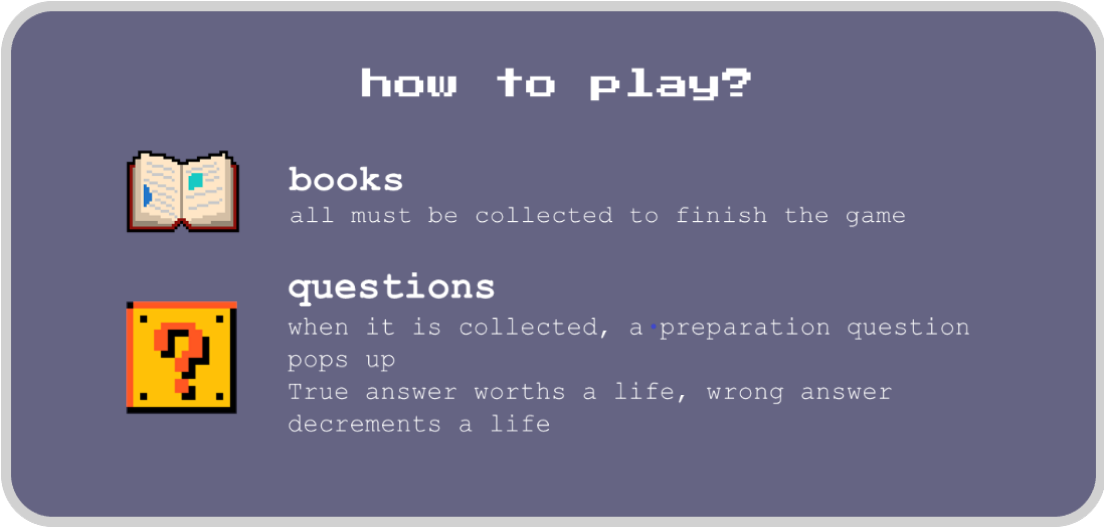
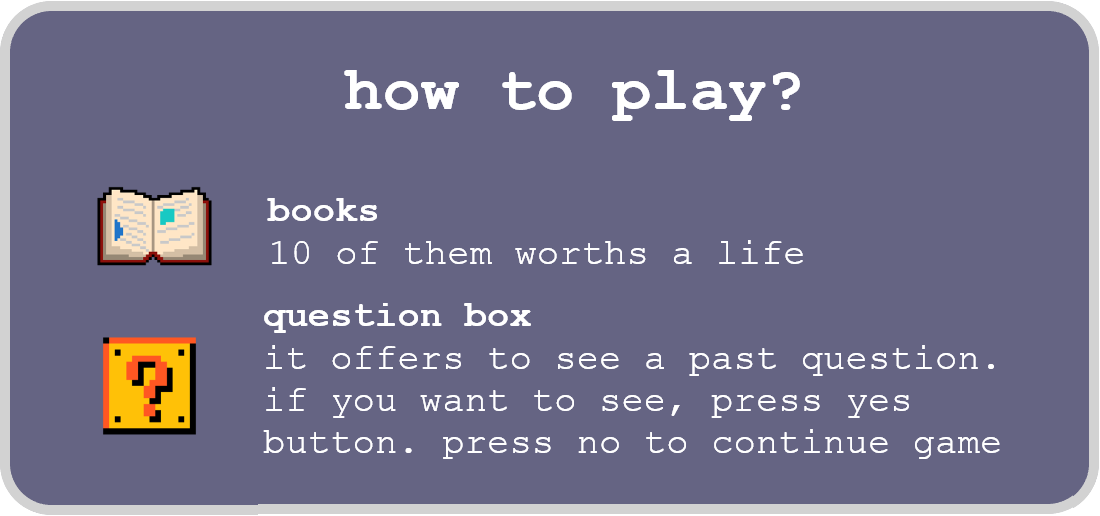
Last changes.

diff --git a/core/src/com/mygdx/demo/Screens/FinishScreen.java b/core/src/com/mygdx/demo/Screens/FinishScreen.java
@@ -4,6 +4,7 @@ package com.mygdx.demo.Screens;
 import com.badlogic.gdx.Game;
 import com.badlogic.gdx.Gdx;
 import com.badlogic.gdx.Screen;
+import com.badlogic.gdx.audio.Music;
 import com.badlogic.gdx.graphics.Color;
 import com.badlogic.gdx.graphics.GL20;
 import com.badlogic.gdx.graphics.OrthographicCamera;
@@ -21,16 +22,16 @@ import com.badlogic.gdx.scenes.scene2d.utils.TextureRegionDrawable;
 import com.badlogic.gdx.utils.viewport.FitViewport;
 import com.badlogic.gdx.utils.viewport.Viewport;
 import com.mygdx.demo.TuruncsAdventure;
+import com.mygdx.demo.Levels.LevelState;
 
 public class FinishScreen extends Window {
 
-    private Viewport viewport;
-    private Stage stage;
+
     private static WindowStyle windowStyle;
     private TuruncsAdventure game;
-    private Texture ad, oo, ud;
     private static Image finish;
-    private TextureRegionDrawable buttonDrawable, buttonDrawable2, buttonDrawable3;
+    public Music music;
+
 
     static {
         windowStyle = new Window.WindowStyle(new BitmapFont(), Color.BLACK,
@@ -40,6 +41,9 @@ public class FinishScreen extends Window {
     public FinishScreen(TuruncsAdventure t) {
         super("", windowStyle);
         game = t;
+         music = TuruncsAdventure.manager.get("Audio/music/pixel-song-18-72641.mp3", Music.class);
+        music.setLooping(true);
+        music.play();
         finish = new Image(new Texture("end.png"));
         getTitleTable().add(finish).size((int) (1100 / 3), (int) (516 / 3)).padTop(200).padRight(10);
         ;
@@ -47,7 +51,9 @@ public class FinishScreen extends Window {
             @Override
             public void clicked(InputEvent event, float x, float y) {
                 setVisible(false);
+                LevelState.bookCount =0;
                 game.setScreen(new MenuScreen(game));
+            
 
             }
         });

diff --git a/core/src/com/mygdx/demo/Screens/QCreator.java b/core/src/com/mygdx/demo/Screens/QCreator.java
@@ -54,7 +54,6 @@ public class QCreator extends Window {
                 getTitleTable().removeActor(questionAsk);
                 getTitleTable().removeActor(yesButton);
                 getTitleTable().removeActor(noButton);
-                System.out.println("jdnf");
 
                 if (!firstshown) {
                     firstshown = true;
@@ -96,7 +95,6 @@ public class QCreator extends Window {
                     });
 
                 }
-                System.out.println("djnfnjmffnddjfjnjfjfdjfdjnfjnfj");
 
             }
         });
@@ -106,10 +104,8 @@ public class QCreator extends Window {
                 setVisible(false);
             }
         });
-        //getTitleTable().add(questionAsk).size(700 / 5, 100 / 5).padLeft(400).padTop(100);
         getTitleTable().add(yesButton).size(96 / 2, 64 / 2).padLeft(200).padTop(300);
         getTitleTable().add(noButton).size(96 / 2, 64 / 2).padRight(200).padTop(300);
-        // getTitleTable().add(noButton).size(96 / 2, 64 / 2).padLeft(10);
 
         setClip(false);
         setTransform(true);

diff --git a/core/src/com/mygdx/demo/QuestPlay.java b/core/src/com/mygdx/demo/QuestPlay.java
@@ -2,13 +2,10 @@ package com.mygdx.demo;
 
 import com.badlogic.gdx.ApplicationAdapter;
 import com.badlogic.gdx.Gdx;
-import com.badlogic.gdx.Input;
 import com.badlogic.gdx.InputMultiplexer;
 import com.badlogic.gdx.InputProcessor;
 import com.badlogic.gdx.graphics.GL20;
 import com.badlogic.gdx.scenes.scene2d.Stage;
-import com.badlogic.gdx.utils.Align;
-import com.mygdx.demo.Screens.QCreator;
 import com.mygdx.demo.Screens.QuestScreen;
 
 public class QuestPlay extends ApplicationAdapter implements InputProcessor {
@@ -46,16 +43,10 @@ public class QuestPlay extends ApplicationAdapter implements InputProcessor {
     public void dispose() {
         stage.dispose();
     }
-
     @Override
     public boolean keyDown(int keycode) {
-        if (keycode == Input.Keys.NUM_1) {
-            gamePlayQ.setVisible(true);
-            return true;
-        }
-
-        return false;
-    }
+        return true;
+    } 
 
     @Override
     public boolean keyUp(int keycode) {

diff --git a/core/src/com/mygdx/demo/Levels/LevelState.java b/core/src/com/mygdx/demo/Levels/LevelState.java
@@ -1,6 +1,5 @@
 package com.mygdx.demo.Levels;
 
-import com.badlogic.gdx.Game;
 import com.badlogic.gdx.Gdx;
 import com.badlogic.gdx.graphics.Color;
 import com.badlogic.gdx.graphics.OrthographicCamera;
@@ -8,7 +7,6 @@ import com.badlogic.gdx.graphics.Texture;
 import com.badlogic.gdx.graphics.g2d.Batch;
 import com.badlogic.gdx.graphics.g2d.BitmapFont;
 import com.badlogic.gdx.graphics.g2d.SpriteBatch;
-import com.badlogic.gdx.physics.box2d.Filter;
 import com.badlogic.gdx.scenes.scene2d.Actor;
 import com.badlogic.gdx.scenes.scene2d.Stage;
 import com.badlogic.gdx.scenes.scene2d.ui.Image;
@@ -49,7 +47,7 @@ public class LevelState implements Disposable {
         this.t =t;
         worldTimer = 300;
         timeCount = 0;
-        lives = 3;
+        lives = 9;
         levels = 0;
 
         viewport = new FitViewport(TuruncsAdventure.WIDTH, TuruncsAdventure.HEIGHT, new OrthographicCamera());

diff --git a/core/src/com/mygdx/demo/FinishGame.java b/core/src/com/mygdx/demo/FinishGame.java
@@ -7,11 +7,7 @@ import com.badlogic.gdx.InputMultiplexer;
 import com.badlogic.gdx.InputProcessor;
 import com.badlogic.gdx.graphics.GL20;
 import com.badlogic.gdx.scenes.scene2d.Stage;
-import com.badlogic.gdx.utils.Align;
 import com.mygdx.demo.Screens.FinishScreen;
-import com.mygdx.demo.Screens.QCreator;
-import com.mygdx.demo.Screens.QuestScreen;
-import com.mygdx.demo.TuruncsAdventure;
 
 public class FinishGame extends ApplicationAdapter implements InputProcessor {
 
@@ -54,6 +50,7 @@ public class FinishGame extends ApplicationAdapter implements InputProcessor {
     public boolean keyDown(int keycode) {
         if (keycode == Input.Keys.NUM_1) {
             gamePlayQ.setVisible(true);
+            
             return true;
         }
 

diff --git a/core/src/com/mygdx/demo/Screens/HowToScreen.java b/core/src/com/mygdx/demo/Screens/HowToScreen.java
@@ -18,7 +18,7 @@ public class HowToScreen extends Window{
     private static final ImageButtonStyle backButtonStyle;
     private TuruncsAdventure game;
     static {
-        TextureAtlas textureAtlas = new TextureAtlas(Gdx.files.internal("howToTileSet.pack"));
+        TextureAtlas textureAtlas = new TextureAtlas(Gdx.files.internal("assets/howToTileSet.pack.txt"));
         windowStyle = new WindowStyle(new BitmapFont(), Color.BLACK,
                 new TextureRegionDrawable(textureAtlas.findRegion("howToPlay")));
         backButtonStyle = new ImageButtonStyle();

diff --git a/core/src/com/mygdx/demo/Objects/WorldContactListener.java b/core/src/com/mygdx/demo/Objects/WorldContactListener.java
@@ -47,7 +47,7 @@ public class WorldContactListener implements ContactListener {
                 break;
             case TuruncsAdventure.CAT_BIT | TuruncsAdventure.FLOOR_BIT:
                 System.out.println("dieee");
-                LevelState.loseLive(3);
+                LevelState.loseLive(LevelState.getLives());
                 if (LevelState.getLives() == 0) {
                     TuruncsAdventure.manager.get("Audio/music/kl-peach-game-over-iii-142453.mp3", Music.class).play();
                     Cat.isDead = true;

diff --git a/core/src/com/mygdx/demo/Entity/Book.java b/core/src/com/mygdx/demo/Entity/Book.java
@@ -12,7 +12,6 @@ import com.badlogic.gdx.math.Vector2;
 import com.badlogic.gdx.physics.bullet.softbody.btSparseSdf3.Cell;
 import com.mygdx.demo.Levels.LevelState;
 import com.mygdx.demo.Screens.GameScreen;
-import com.mygdx.demo.Screens.GameplayQuestionScreen;
 import com.mygdx.demo.TuruncsAdventure;
 
 public class Book extends InteractiveTile {

diff --git a/core/src/com/mygdx/demo/GameplayQ.java b/core/src/com/mygdx/demo/GameplayQ.java
@@ -7,7 +7,6 @@ import com.badlogic.gdx.InputMultiplexer;
 import com.badlogic.gdx.InputProcessor;
 import com.badlogic.gdx.graphics.GL20;
 import com.badlogic.gdx.scenes.scene2d.Stage;
-import com.badlogic.gdx.utils.Align;
 import com.mygdx.demo.Screens.QCreator;
 
 public class GameplayQ extends ApplicationAdapter implements InputProcessor {

diff --git a/core/src/com/mygdx/demo/Entity/Animal.java b/core/src/com/mygdx/demo/Entity/Animal.java
@@ -9,7 +9,6 @@ import com.badlogic.gdx.physics.box2d.CircleShape;
 import com.badlogic.gdx.physics.box2d.FixtureDef;
 import com.badlogic.gdx.physics.box2d.PolygonShape;
 import com.badlogic.gdx.utils.Array;
-import com.mygdx.demo.Levels.LevelState;
 import com.mygdx.demo.Screens.GameScreen;
 import com.mygdx.demo.TuruncsAdventure;
 

diff --git a/core/src/com/mygdx/demo/Entity/Bug.java b/core/src/com/mygdx/demo/Entity/Bug.java
@@ -9,7 +9,6 @@ import com.badlogic.gdx.physics.box2d.CircleShape;
 import com.badlogic.gdx.physics.box2d.FixtureDef;
 import com.badlogic.gdx.physics.box2d.PolygonShape;
 import com.badlogic.gdx.utils.Array;
-import com.mygdx.demo.Levels.LevelState;
 import com.mygdx.demo.Screens.GameScreen;
 import com.mygdx.demo.TuruncsAdventure;
 

diff --git a/core/src/com/mygdx/demo/Entity/Student.java b/core/src/com/mygdx/demo/Entity/Student.java
@@ -9,7 +9,6 @@ import com.badlogic.gdx.physics.box2d.CircleShape;
 import com.badlogic.gdx.physics.box2d.FixtureDef;
 import com.badlogic.gdx.physics.box2d.PolygonShape;
 import com.badlogic.gdx.utils.Array;
-import com.mygdx.demo.Levels.LevelState;
 import com.mygdx.demo.Screens.GameScreen;
 import com.mygdx.demo.TuruncsAdventure;
 
